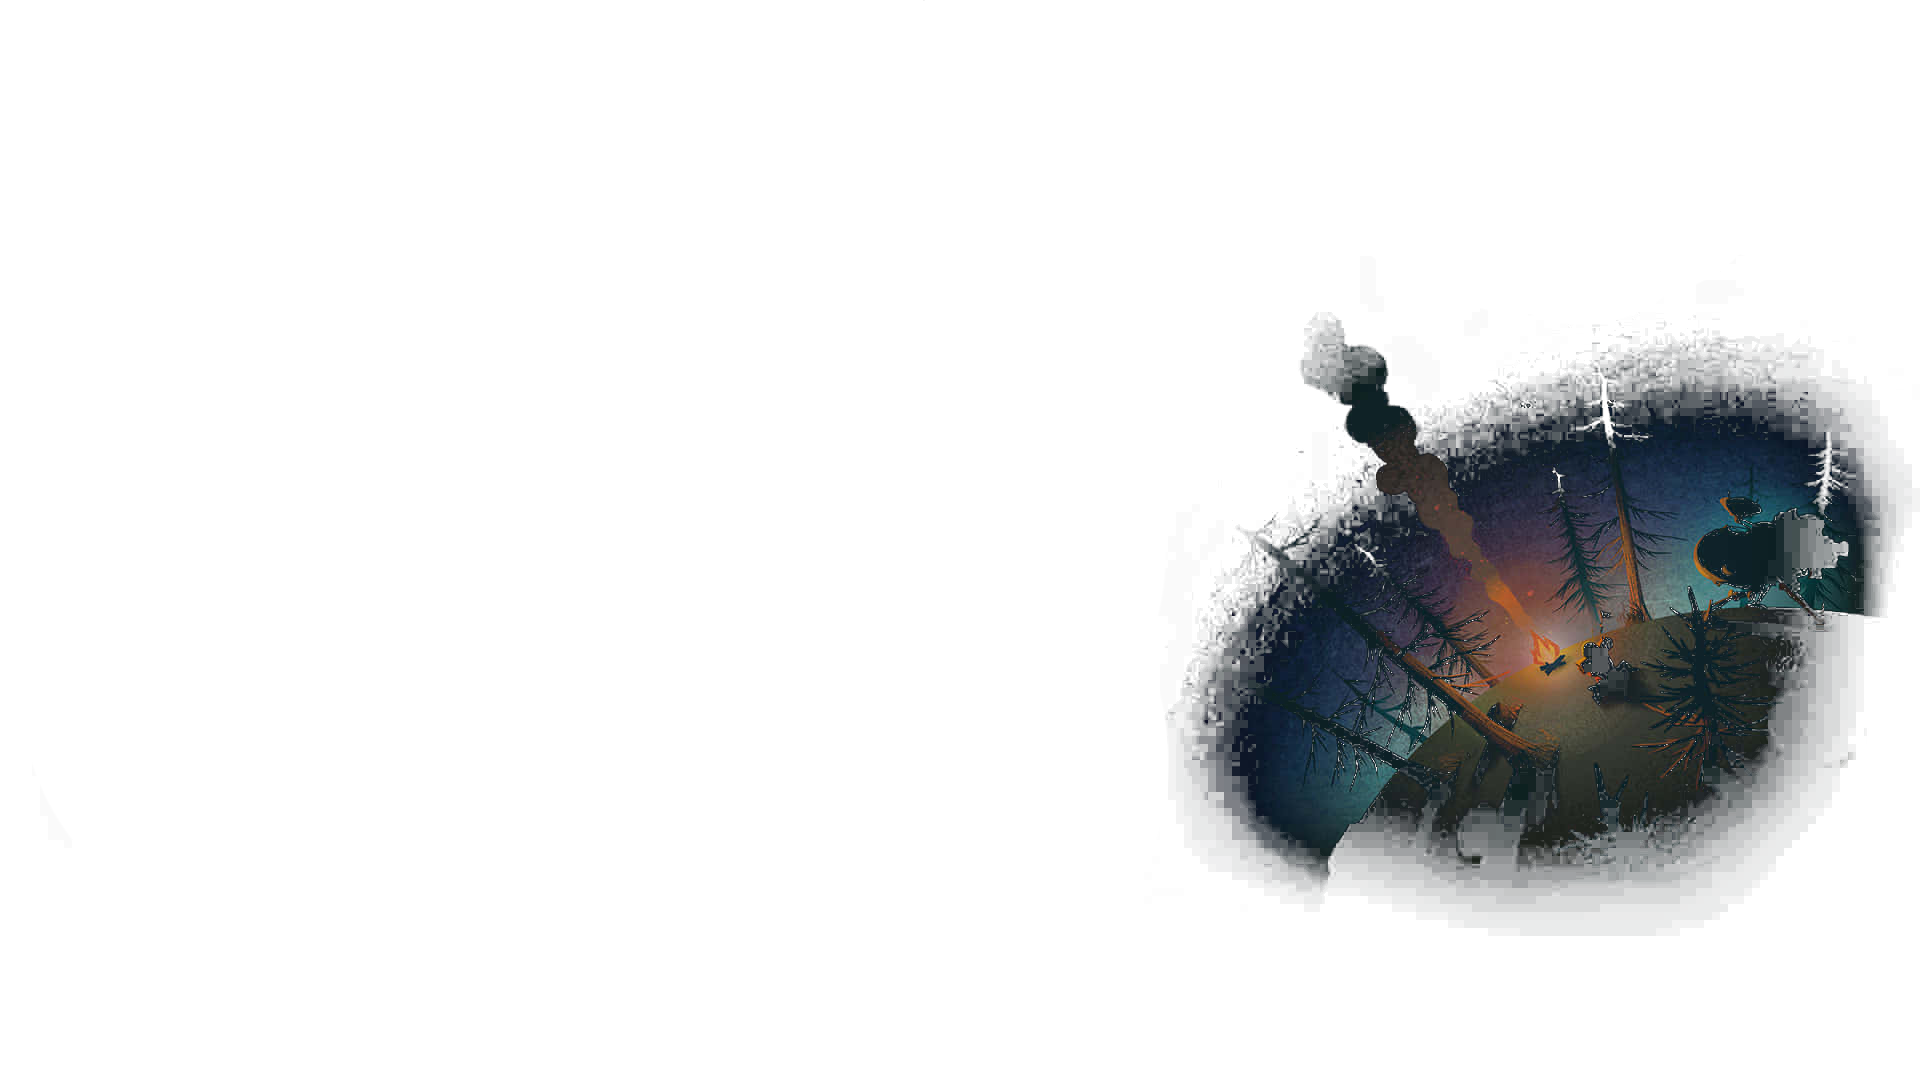
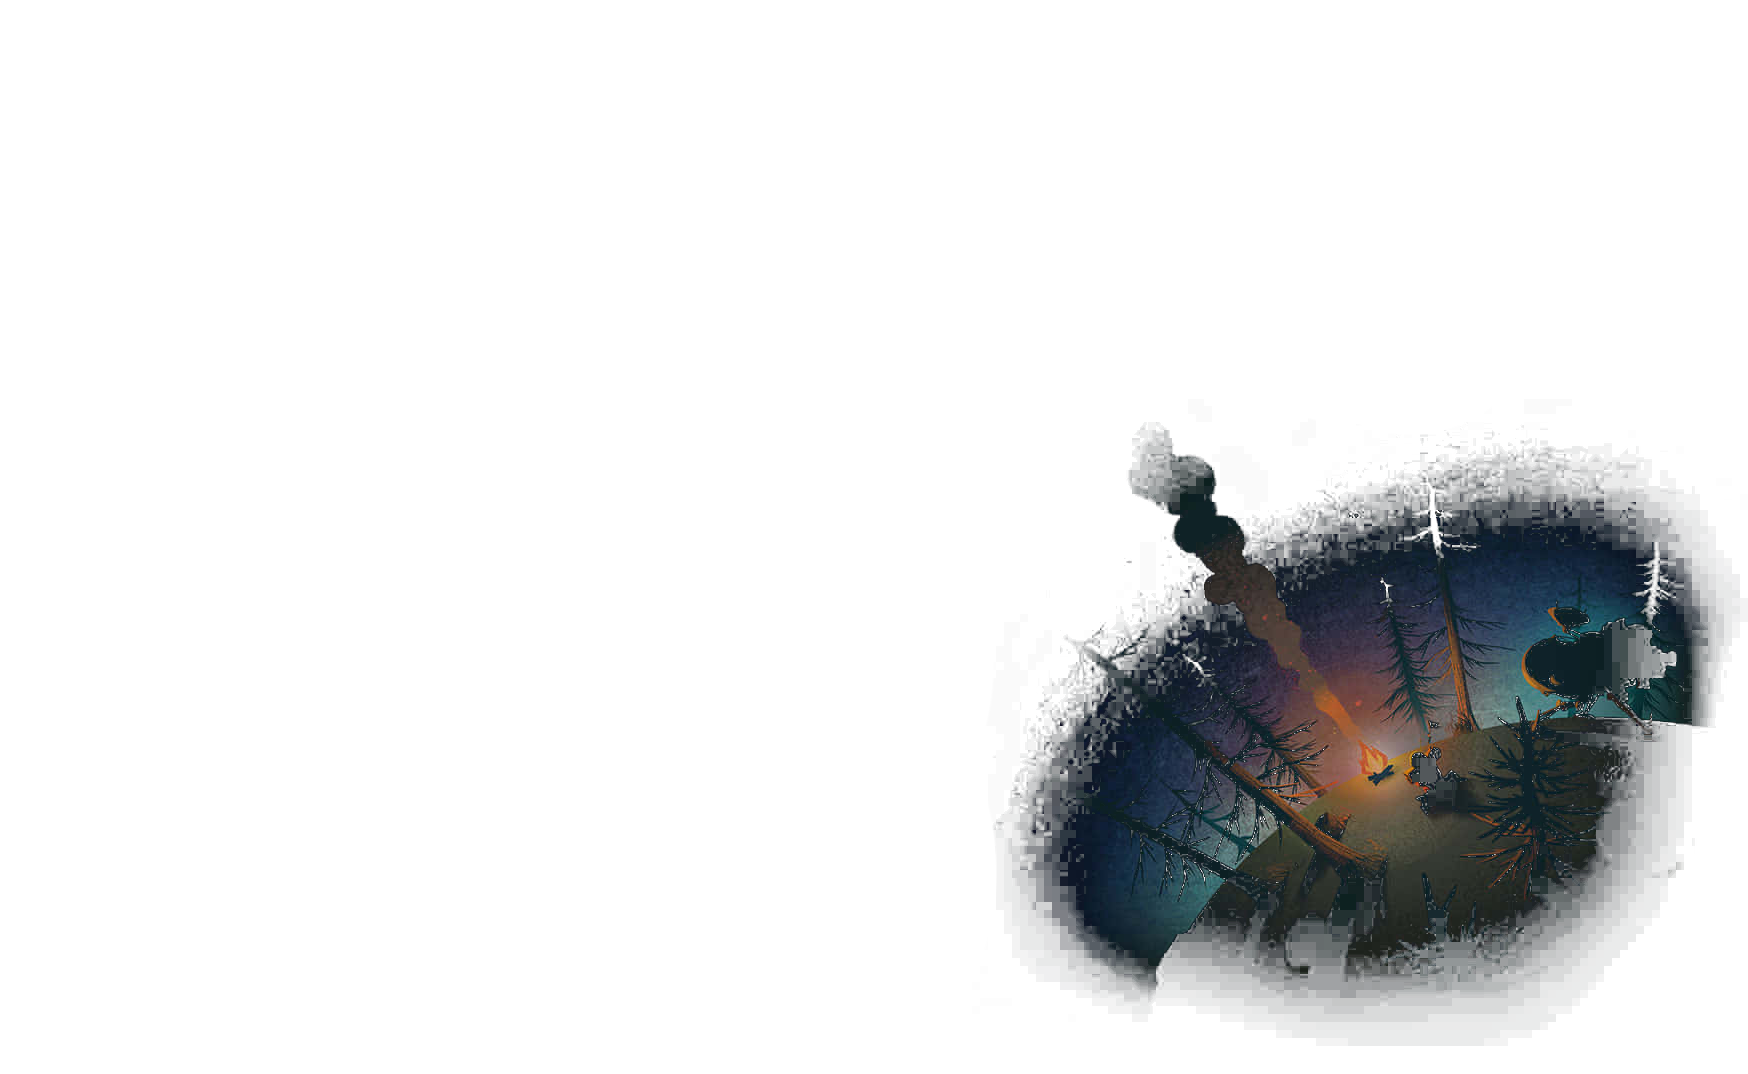
Reveal and anchor campfire background artwork

Changed region(s): [[0.5561, 0.2765, 0.9886, 0.9525]]

diff --git a/src/components/SolarSystem.tsx b/src/components/SolarSystem.tsx
@@ -254,6 +254,7 @@ export const SolarSystem = forwardRef<SolarSystemHandle, SolarSystemProps>(funct
   const offscreenIndicatorRef = useRef<HTMLDivElement | null>(null);
   const offscreenIndicatorLabelRef = useRef<HTMLSpanElement | null>(null);
   const offscreenIndicatorDistanceRef = useRef<HTMLSpanElement | null>(null);
+  const campfireBackgroundRef = useRef<HTMLImageElement | null>(null);
   const focusedBodyRef = useRef<BodyId | null>('sun');
   const displayedCameraRef = useRef<Camera>(camera.camera);
   const cameraTransitionRef = useRef<CameraTransition | null>(null);
@@ -583,6 +584,8 @@ export const SolarSystem = forwardRef<SolarSystemHandle, SolarSystemProps>(funct
         indicatorWindow,
       );
       indicator.hidden = placement === null;
+      const campfire = campfireBackgroundRef.current;
+      if (campfire !== null && placement === null) campfire.hidden = true;
       if (placement !== null) {
         const angleRadians = placement.angle * Math.PI / 180;
         const tipInset = 13.6;
@@ -612,6 +615,7 @@ export const SolarSystem = forwardRef<SolarSystemHandle, SolarSystemProps>(funct
           ATLAS_VIEW_BOX,
         );
         const distance = Math.round(Math.hypot(referenceTarget.x - bounds.width / 2, referenceTarget.y - bounds.height / 2));
+        if (campfire !== null) campfire.hidden = distance < 1989;
         indicator.setAttribute('aria-label', `${placement.label} is offscreen, ${distance} kilometers away`);
         if (offscreenIndicatorLabelRef.current !== null) offscreenIndicatorLabelRef.current.textContent = placement.label;
         if (offscreenIndicatorDistanceRef.current !== null) offscreenIndicatorDistanceRef.current.textContent = `${distance} km`;
@@ -1057,6 +1061,14 @@ export const SolarSystem = forwardRef<SolarSystemHandle, SolarSystemProps>(funct
         />
       </svg>
       </ImageArtworkContext.Provider>
+      <img
+        ref={campfireBackgroundRef}
+        className="campfire-background"
+        src={`${import.meta.env.BASE_URL}images/campfire-background.png`}
+        alt=""
+        hidden
+        aria-hidden="true"
+      />
       <div ref={offscreenIndicatorRef} className="offscreen-indicator" hidden aria-hidden="true">
         <span className="offscreen-indicator__chevron" aria-hidden="true" />
         <span className="offscreen-indicator__labels">

diff --git a/src/styles/atlas.css b/src/styles/atlas.css
@@ -9,6 +9,16 @@
 .atlas-background { position: absolute; inset: 0; z-index: 0; width: 100%; height: 100%; pointer-events: none; }
 .atlas-background-stars { position: absolute; inset: 0; z-index: 1; width: 100%; height: 100%; pointer-events: none; }
 .void-overlay { position: absolute; inset: 0; z-index: .5; background: #000; pointer-events: none; transition: opacity 180ms ease-out; }
+.campfire-background {
+  position: absolute;
+  inset: 0;
+  z-index: .75;
+  width: 100%;
+  height: 100%;
+  object-fit: cover;
+  object-position: right bottom;
+  pointer-events: none;
+}
 
 .atlas-map-surface:active { cursor: grabbing; }
 

diff --git a/ATLAS_REPORT.md b/ATLAS_REPORT.md
@@ -333,6 +333,8 @@ The small binary orbit explicitly matches moon orbit styling, including its non-
 Offscreen indicator geometry is edge-clamped to the usable atlas window. Each indicator now includes the selected entity name plus a distance label on the opposite side, computed as the rounded projected pixel distance between the clamped chevron position and the target.
 The name and distance are rendered as an ordered label group, so the name is always nearest the chevron and the distance follows it outward on every edge.
 Only the existing entity-name label is rendered; the distance label shares its font styling rather than duplicating the name, and is displayed in kilometres using projected distance from a minimum-zoom reference camera.
+The campfire background asset is shown when this reference distance is at least 1,989 km; it is full-stage, lower-right artwork beneath stars and planets and does not capture pointer input.
+Its image positioning is anchored to the bottom-right, keeping that corner fixed as the viewport changes.
 
 
 Simulation playback supports 0.5x, 1x, 2x, 4x, and 8x speed selections.

diff --git a/PROJECT_REPORT.md b/PROJECT_REPORT.md
@@ -743,6 +743,8 @@ The small Hourglass binary orbit explicitly matches moon orbit styling, includin
 Offscreen indicators now show a second, opposite-side distance label. The distance is the projected pixel gap from the chevron edge to the offscreen target, while the entity name remains on its existing side.
 The indicator labels are grouped in chevron-outward order: entity name first, then distance, with layout direction adapting to each screen edge.
 The original entity label remains the sole name label; the distance label now uses the same typography and displays the target's projected distance from the viewport center at the fixed minimum zoom in kilometres.
+When that reference distance reaches 1,989 km, the campfire artwork is revealed as a non-interactive lower-right background layer.
+The campfire image uses bottom-right object anchoring so its lower-right corner stays pinned to the viewport corner.
 
 Selecting either individual Hourglass Twin highlights their shared binary orbit without applying the composite sand-beam effect.
 
